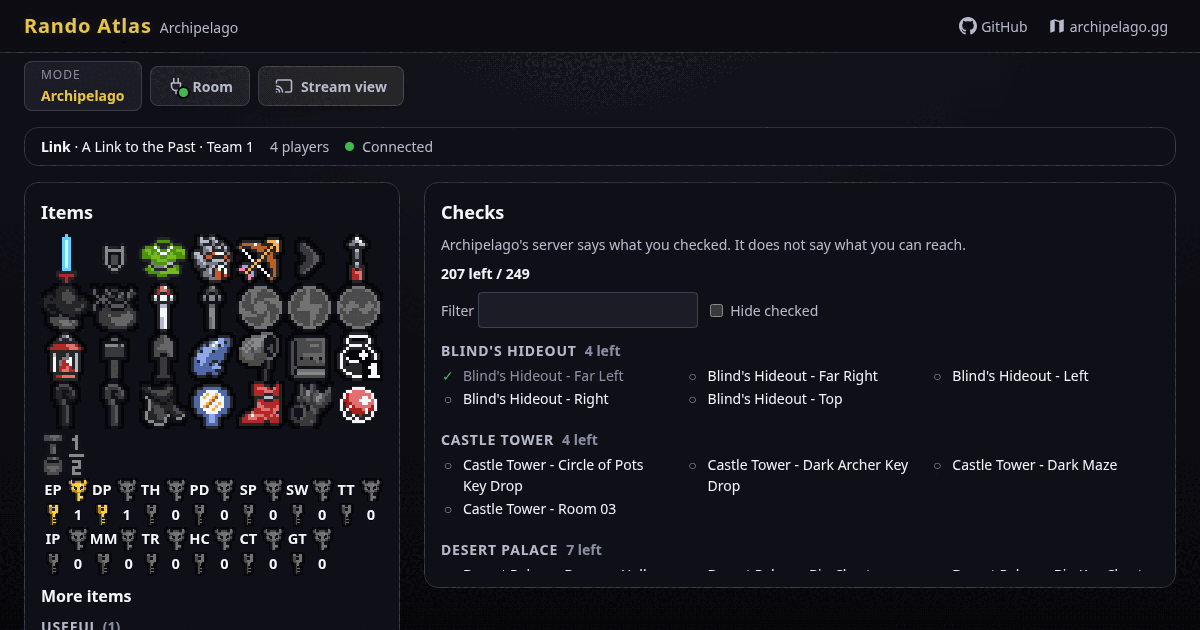
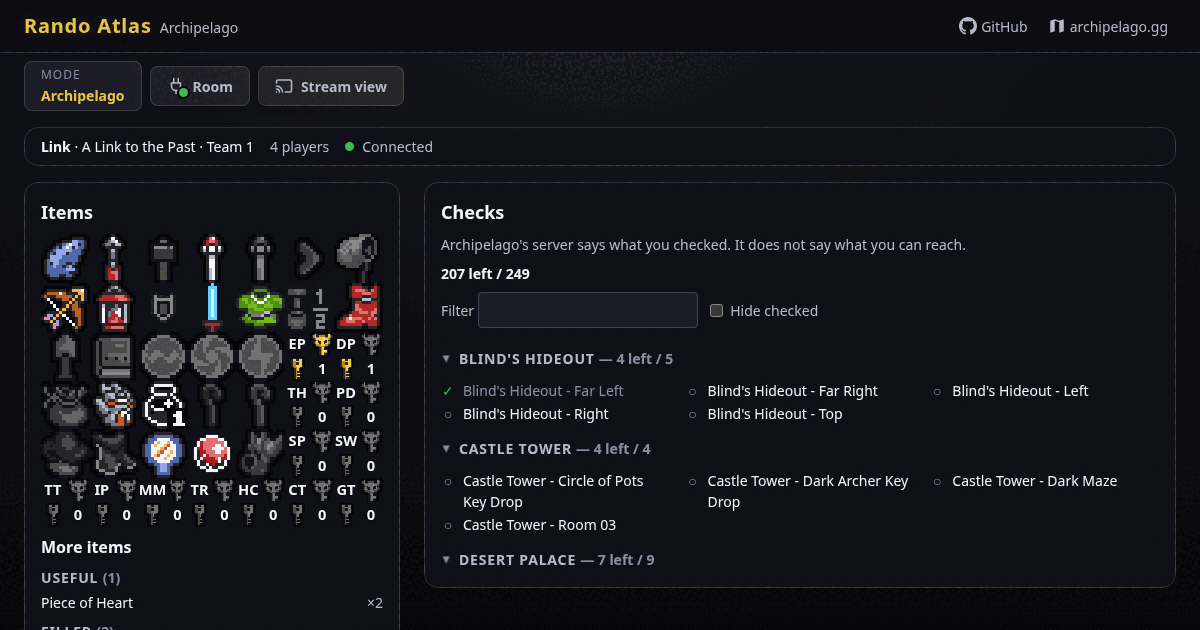
docs: describe the skin's layout, and redraw the Archipelago card
The card showed the grid before its rows were rebalanced.

diff --git a/docs/archipelago.md b/docs/archipelago.md
@@ -172,7 +172,10 @@ location, hint, timer or go mode ([overlay-api.md](overlay-api.md#ids-per-game))
 
 A skin (`worlds/skin.ts`) maps AP item names to cells: progressive items to
 levels (AP's `progression_mapping`), bits (the bow and silver arrows, the
-boomerangs), counts (bottles of any content) and keys per dungeon. Whatever
+boomerangs), counts (bottles of any content) and keys per dungeon, and lays
+them in an explicit `layout` of full rows: the ALttP skin follows ALttPR's board
+(its item order, two dungeons' keys where that board has key and boss cells,
+then the last seven dungeons'), six rows of seven. Whatever
 the slot received that no cell counts goes under **More items**, grouped by
 AP's flags as the generic list is. `worlds/alttp.ts` is read from AP 0.6.8's
 `worlds/alttp/Items.py`; `worlds/alttp.spec.ts` holds it to the pinned name
